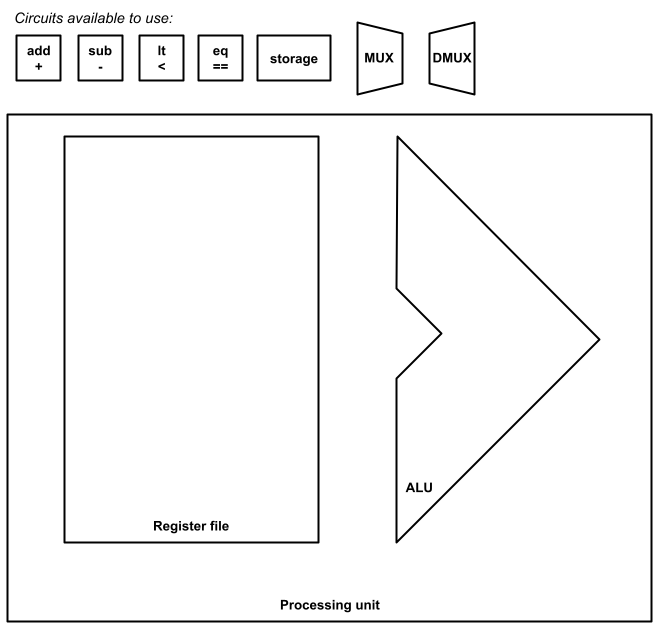
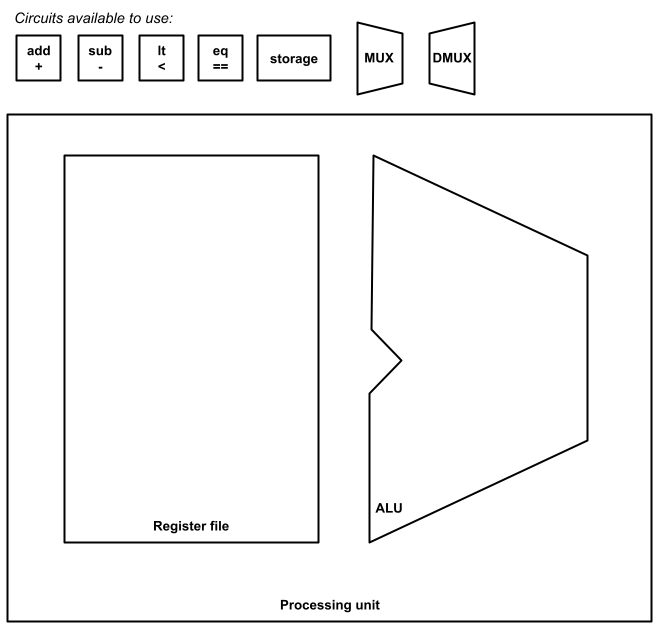
Notes for 2023-03-10

diff --git a/aaron/2023-03-10.slides.html b/aaron/2023-03-10.slides.html
@@ -7,7 +7,7 @@
 <meta name="apple-mobile-web-app-status-bar-style" content="black-translucent" />
 
 
-<title>2023-03-08 slides</title><script src="https://cdnjs.cloudflare.com/ajax/libs/jquery/2.0.3/jquery.min.js"></script><script src="https://cdnjs.cloudflare.com/ajax/libs/require.js/2.1.10/require.min.js"></script>
+<title>2023-03-10 slides</title><script src="https://cdnjs.cloudflare.com/ajax/libs/jquery/2.0.3/jquery.min.js"></script><script src="https://cdnjs.cloudflare.com/ajax/libs/require.js/2.1.10/require.min.js"></script>
 
 <!-- General and theme style sheets -->
 <link rel="stylesheet" href="https://unpkg.com/reveal.js@4.0.2/dist/reveal.css">
@@ -14658,35 +14658,7 @@ div.jp-OutputPrompt {
 </div>
 <div class="jp-InputArea jp-Cell-inputArea"><div class="jp-InputPrompt jp-InputArea-prompt">
 </div><div class="jp-RenderedHTMLCommon jp-RenderedMarkdown jp-MarkdownOutput " data-mime-type="text/markdown">
-<h2 id="Warm-up">Warm-up<a class="anchor-link" href="#Warm-up">&#182;</a></h2>
-</div>
-</div>
-</div>
-</div>
-<div class="jp-Cell jp-MarkdownCell jp-Notebook-cell">
-<div class="jp-Cell-inputWrapper">
-<div class="jp-Collapser jp-InputCollapser jp-Cell-inputCollapser">
-</div>
-<div class="jp-InputArea jp-Cell-inputArea"><div class="jp-InputPrompt jp-InputArea-prompt">
-</div><div class="jp-RenderedHTMLCommon jp-RenderedMarkdown jp-MarkdownOutput " data-mime-type="text/markdown">
-<ul>
-<li><a href="https://app.formative.com/join/UN4LD3">https://app.formative.com/join/UN4LD3</a></li>
-</ul>
-
-</div>
-</div>
-</div>
-</div>
-<div class="jp-Cell jp-MarkdownCell jp-Notebook-cell">
-<div class="jp-Cell-inputWrapper">
-<div class="jp-Collapser jp-InputCollapser jp-Cell-inputCollapser">
-</div>
-<div class="jp-InputArea jp-Cell-inputArea"><div class="jp-InputPrompt jp-InputArea-prompt">
-</div><div class="jp-RenderedHTMLCommon jp-RenderedMarkdown jp-MarkdownOutput " data-mime-type="text/markdown">
-<ul>
-<li>Q1: <em>Create a 1-bit circuit for <code>A &lt;= B</code> using <code>AND</code>, <code>OR</code>, <code>NOT</code> gates</em></li>
-</ul>
-
+<h2 id="No-warm-up-%E2%80%93-Happy-Friday!">No warm-up &#8211; Happy Friday!<a class="anchor-link" href="#No-warm-up-%E2%80%93-Happy-Friday!">&#182;</a></h2>
 </div>
 </div>
 </div>
@@ -14697,21 +14669,7 @@ div.jp-OutputPrompt {
 </div>
 <div class="jp-InputArea jp-Cell-inputArea"><div class="jp-InputPrompt jp-InputArea-prompt">
 </div><div class="jp-RenderedHTMLCommon jp-RenderedMarkdown jp-MarkdownOutput " data-mime-type="text/markdown">
-<h2 id="n-bit-Logical-Circuits">n-bit Logical Circuits<a class="anchor-link" href="#n-bit-Logical-Circuits">&#182;</a></h2>
-</div>
-</div>
-</div>
-</div>
-<div class="jp-Cell jp-MarkdownCell jp-Notebook-cell">
-<div class="jp-Cell-inputWrapper">
-<div class="jp-Collapser jp-InputCollapser jp-Cell-inputCollapser">
-</div>
-<div class="jp-InputArea jp-Cell-inputArea"><div class="jp-InputPrompt jp-InputArea-prompt">
-</div><div class="jp-RenderedHTMLCommon jp-RenderedMarkdown jp-MarkdownOutput " data-mime-type="text/markdown">
-<ul>
-<li>Q2: <em>Complete the truth-table for <code>A &gt; B</code> when A and B are two bits</em></li>
-</ul>
-
+<h2 id="Processing-Unit">Processing Unit<a class="anchor-link" href="#Processing-Unit">&#182;</a></h2>
 </div>
 </div>
 </div>
@@ -14722,120 +14680,20 @@ div.jp-OutputPrompt {
 </div>
 <div class="jp-InputArea jp-Cell-inputArea"><div class="jp-InputPrompt jp-InputArea-prompt">
 </div><div class="jp-RenderedHTMLCommon jp-RenderedMarkdown jp-MarkdownOutput  celltag_worksheet-only" data-mime-type="text/markdown">
-<table>
-<thead>
-<tr>
-  <th>A2 A1</th>
-  <th>B2 B1</th>
-  <th>A &gt; B</th>
-</tr>
-</thead>
-<tbody>
-<tr>
-  <td>0   0</td>
-  <td>0   0</td>
-  <td>0</td>
-</tr>
-<tr>
-  <td>0   1</td>
-  <td>0   0</td>
-  <td>1</td>
-</tr>
-<tr>
-  <td>1   0</td>
-  <td>0   0</td>
-  <td></td>
-</tr>
-<tr>
-  <td>1   1</td>
-  <td>0   0</td>
-  <td></td>
-</tr>
-<tr>
-  <td>0   0</td>
-  <td>0   1</td>
-  <td></td>
-</tr>
-<tr>
-  <td>0   1</td>
-  <td>0   1</td>
-  <td></td>
-</tr>
-<tr>
-  <td>1   0</td>
-  <td>0   1</td>
-  <td></td>
-</tr>
-<tr>
-  <td>1   1</td>
-  <td>0   1</td>
-  <td></td>
-</tr>
-<tr>
-  <td>0   0</td>
-  <td>1   0</td>
-  <td></td>
-</tr>
-<tr>
-  <td>0   1</td>
-  <td>1   0</td>
-  <td></td>
-</tr>
-<tr>
-  <td>1   0</td>
-  <td>1   0</td>
-  <td></td>
-</tr>
-<tr>
-  <td>1   1</td>
-  <td>1   0</td>
-  <td></td>
-</tr>
-<tr>
-  <td>0   0</td>
-  <td>1   1</td>
-  <td></td>
-</tr>
-<tr>
-  <td>0   1</td>
-  <td>1   1</td>
-  <td></td>
-</tr>
-<tr>
-  <td>1   0</td>
-  <td>1   1</td>
-  <td></td>
-</tr>
-<tr>
-  <td>1   1</td>
-  <td>1   1</td>
-  <td></td>
-</tr>
-</tbody>
-</table>
+<p><img src="images/circuits/processing_unit_empty.png" alt="" /></p>
 
 </div>
 </div>
 </div>
-</div></section></section><section ><section >
+</div></section><section >
 <div class="jp-Cell jp-MarkdownCell jp-Notebook-cell">
 <div class="jp-Cell-inputWrapper">
 <div class="jp-Collapser jp-InputCollapser jp-Cell-inputCollapser">
 </div>
 <div class="jp-InputArea jp-Cell-inputArea"><div class="jp-InputPrompt jp-InputArea-prompt">
 </div><div class="jp-RenderedHTMLCommon jp-RenderedMarkdown jp-MarkdownOutput  celltag_notes-only" data-mime-type="text/markdown">
-<h2 id="n-bit-arithmetic-circuits">n-bit arithmetic circuits<a class="anchor-link" href="#n-bit-arithmetic-circuits">&#182;</a></h2>
-</div>
-</div>
-</div>
-</div></section></section><section ><section >
-<div class="jp-Cell jp-MarkdownCell jp-Notebook-cell">
-<div class="jp-Cell-inputWrapper">
-<div class="jp-Collapser jp-InputCollapser jp-Cell-inputCollapser">
-</div>
-<div class="jp-InputArea jp-Cell-inputArea"><div class="jp-InputPrompt jp-InputArea-prompt">
-</div><div class="jp-RenderedHTMLCommon jp-RenderedMarkdown jp-MarkdownOutput  celltag_notes-only" data-mime-type="text/markdown">
-<h2 id="Multiplexer-circuit">Multiplexer circuit<a class="anchor-link" href="#Multiplexer-circuit">&#182;</a></h2>
+<p><img src="images/circuits/processing_unit_complete.png" alt="" /></p>
+
 </div>
 </div>
 </div>

diff --git a/aaron/2023-03-08.notes.md b/aaron/2023-03-08.notes.md
@@ -1,4 +1,4 @@
-# Architecture: n-bit circuits; processing unit
+# Architecture: n-bit circuits; multiplexers
 _COSC 208, Introduction to Computer Systems, 2023-03-08_
 
 ## Announcements
@@ -9,7 +9,6 @@ _COSC 208, Introduction to Computer Systems, 2023-03-08_
 * Warm-up
 * n-bit circuits
 * Multiplexer circuit
-* Processing unit
 
 ## Warm-up
 
@@ -69,7 +68,7 @@ _COSC 208, Introduction to Computer Systems, 2023-03-08_
     * Outputs — _What are the formulas for these?_
         * `Gi`: `G(i+1) OR (E(i+1) AND (Ai > Bi))`
         * `Ei`: `E(i+1) AND (Ai == Bi)`
-    * Circuit <br /> ![](images/circuits/a_gt_b_n-bit.png)
+    * Circuit <br /> ![](images/circuits/a_gt_b_n-bit.png) <br /> ![](images/circuits/a_gt_b_n-bit_abstracted.png)
 
 ## n-bit arithmetic circuits
 
@@ -117,7 +116,3 @@ _COSC 208, Introduction to Computer Systems, 2023-03-08_
     ![](https://diveintosystems.org/book/C5-Arch/_images/1bitmux.png)
     
 * Given n selection bits, mux select between 2^n different inputs
-
-## Processing Unit
-
-![](images/circuits/processing_unit_complete.png)

diff --git a/aaron/2023-03-08.worksheet.md b/aaron/2023-03-08.worksheet.md
@@ -1,4 +1,4 @@
-# Architecture: n-bit circuits; processing unit
+# Architecture: n-bit circuits; multiplexers
 _COSC 208, Introduction to Computer Systems, 2023-03-08_
 
 ## Announcements
@@ -9,7 +9,6 @@ _COSC 208, Introduction to Computer Systems, 2023-03-08_
 * Warm-up
 * n-bit circuits
 * Multiplexer circuit
-* Processing unit
 
 ## Warm-up
 
@@ -45,7 +44,3 @@ _COSC 208, Introduction to Computer Systems, 2023-03-08_
 | 1   1 | 1   1 |       |
 
 🛑 **STOP here** after completing the above question; if you have extra time take a few deep breaths to reduce stress.
-
-## Processing Unit
-
-![](images/circuits/processing_unit_empty.png)

diff --git a/aaron/index.md b/aaron/index.md
@@ -48,4 +48,6 @@
 [[Worksheet]](2023-03-03.worksheet.html)
 * logic gates; 1-bit circuits (2023-03-06) [[Notes]](2023-03-06.notes.html) 
 [[Worksheet]](2023-03-06.worksheet.html)
-* n-bit circuits; processing unit (2023-03-08) [[Worksheet]](2023-03-08.worksheet.html)
+* n-bit circuits; multiplexers (2023-03-08) [[Notes]](2023-03-08.notes.html) 
+[[Worksheet]](2023-03-08.worksheet.html)
+* processing unit (2023-03-10) [[Worksheet]](2023-03-10.worksheet.html)

diff --git a/aaron/2023-03-10.notes.md b/aaron/2023-03-10.notes.md
@@ -1,0 +1,15 @@
+# Architecture: processing unit
+_COSC 208, Introduction to Computer Systems, 2023-03-10_
+
+## Announcements
+* Project 3 due Thursday, March 23
+
+## Outline
+* Processing unit
+* Assembly instructions
+
+## No warm-up – Happy Friday!
+
+## Processing Unit
+
+![](images/circuits/processing_unit_complete.png)

diff --git a/aaron/2023-03-10.worksheet.md b/aaron/2023-03-10.worksheet.md
@@ -1,0 +1,15 @@
+# Architecture: processing unit
+_COSC 208, Introduction to Computer Systems, 2023-03-10_
+
+## Announcements
+* Project 3 due Thursday, March 23
+
+## Outline
+* Processing unit
+* Assembly instructions
+
+## No warm-up – Happy Friday!
+
+## Processing Unit
+
+![](images/circuits/processing_unit_empty.png)
